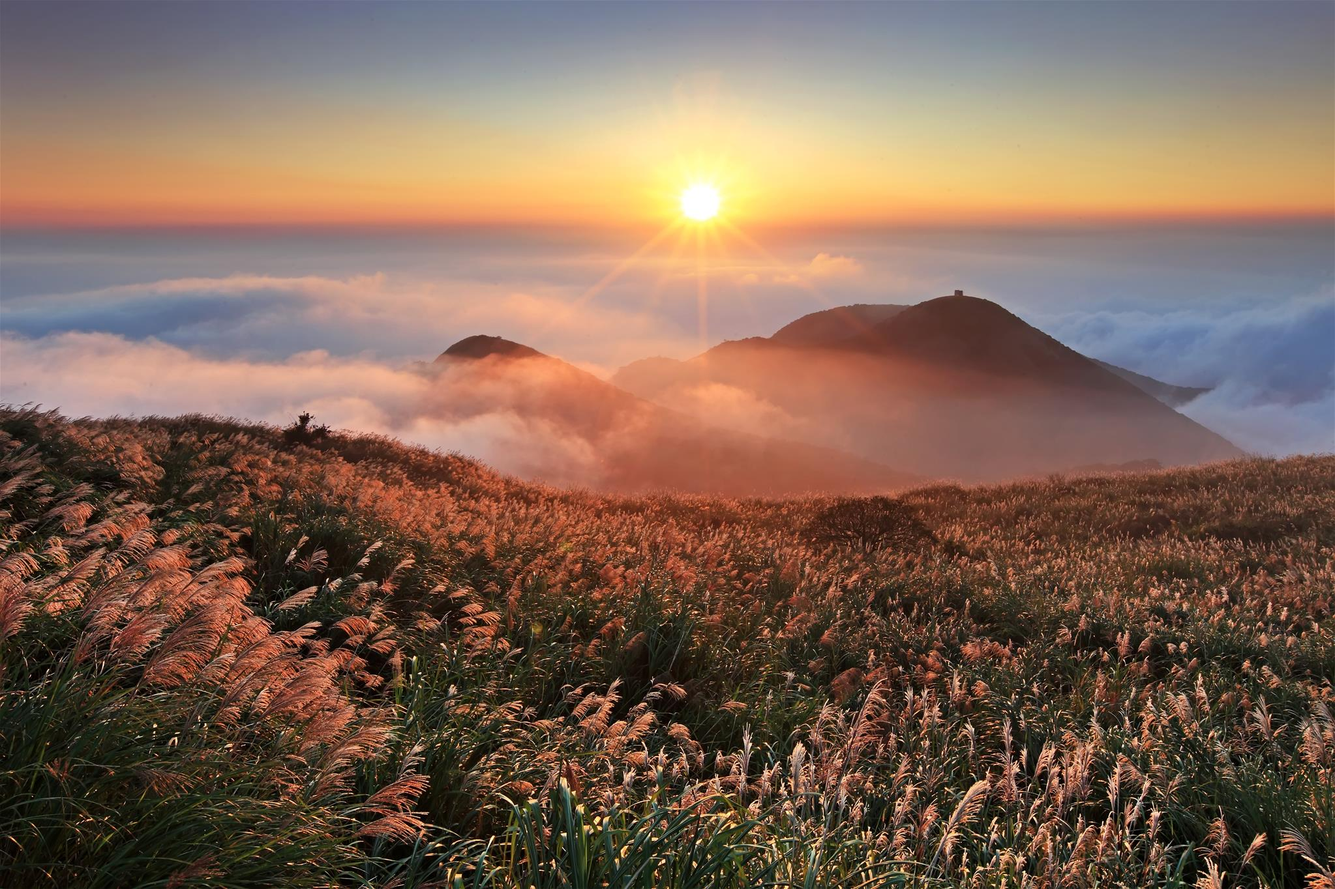
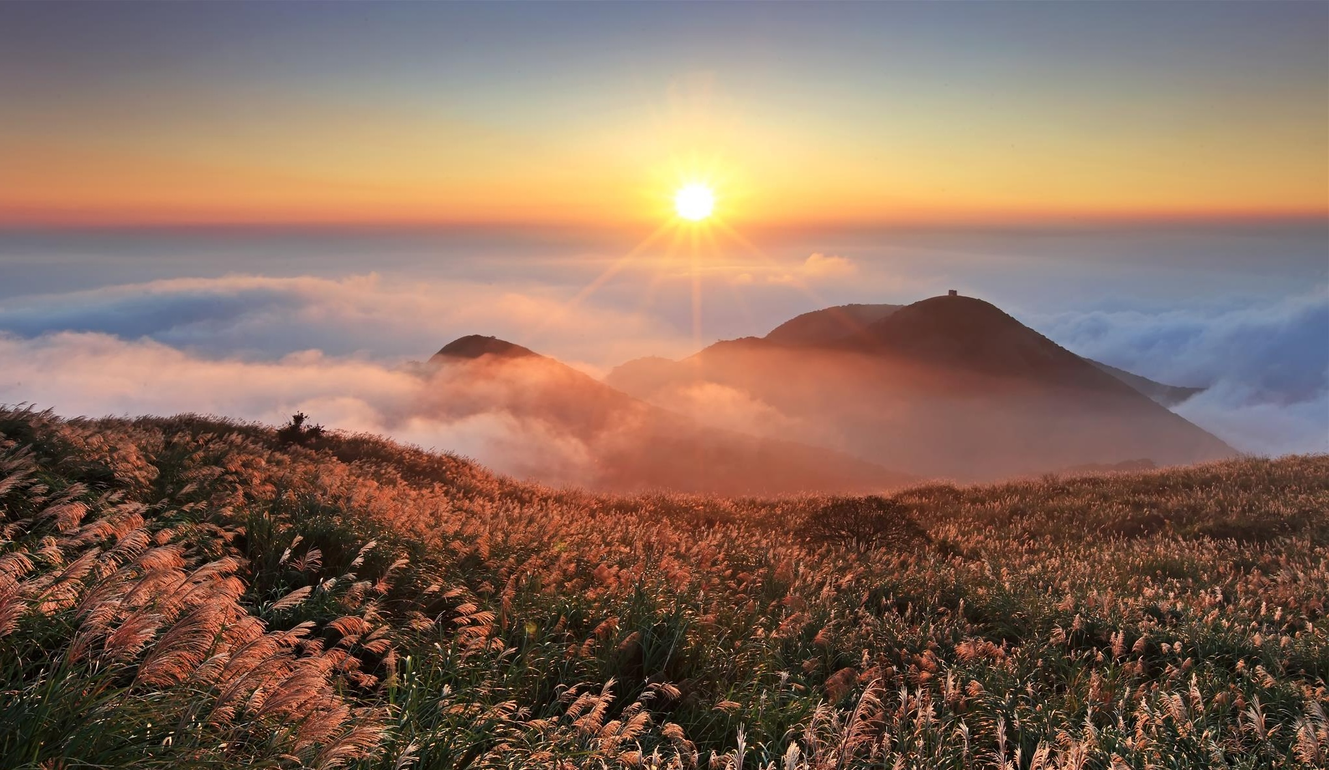
add shilin night market page

diff --git a/shilin_night_market.html b/shilin_night_market.html
@@ -9,31 +9,24 @@
 </head>
 <body>
 
-    <!-- Navbar (same as main site) -->
+    <!-- Navbar (same as National Palace Museum page) -->
     <nav class="navbar">
         <div class="container">
             <a href="index.html" class="logo">Taipei<span>Guide</span></a>
             <ul class="nav-links">
+                <li><a href="index.html#sights">Sights</a></li>
+                <li><a href="index.html#essentials">Essentials</a></li>
                 <li><a href="index.html#orientation">Orientation</a></li>
                 <li><a href="index.html#transport">Transport</a></li>
-                <li><a href="index.html#essentials">Essentials</a></li>
-                <li><a href="index.html#food">Food</a></li>
-                <li><a href="index.html#sights">Sights</a></li>
             </ul>
         </div>
     </nav>
 
     <!-- Hero Section -->
-    <header class="hero" style="
-        background:
-        linear-gradient(rgba(0,0,0,0.7), rgba(0,0,0,0.7)),
-        url('https://images.unsplash.com/photo-1538556216903-9f535b35f7a8?q=80&w=2070&auto=format&fit=crop');
-        background-size: cover;
-        background-position: center;
-    ">
+    <header class="hero hero-snm">
         <div class="hero-content">
             <h1>Shilin Night Market</h1>
-            <p>Taipei’s most iconic night market—food, culture, and endless energy.</p>
+            <p>Taipei’s most iconic night market—food, games, and an endless night-time buzz.</p>
         </div>
     </header>
 
@@ -51,7 +44,7 @@
                 </p>
             </div>
 
-            <div class="card" style="margin-top: 20px;">
+            <div class="card mt-20">
                 <h3>Historical Background</h3>
                 <p>
                     The market traces its origins back to the early 1900s, beginning as the Shilin daytime market 
@@ -59,64 +52,157 @@
                     throughout the surrounding streets. Today, Shilin has evolved into a major entertainment 
                     and culinary destination that attracts millions of visitors every year.
                 </p>
-                <p style="margin-top: 10px;">
+                <p class="mt-10">
                     <strong>Nearest MRT:</strong> Jiantan Station (Red Line) — Exit 1 leads directly to the main entrance.
                 </p>
             </div>
         </div>
     </section>
 
-    <!-- Must-Try Foods -->
+    <!-- Must-Try Foods (tab buttons) -->
     <section class="section-padding">
         <div class="container">
             <h2 class="section-title">Must-Try Foods</h2>
 
-            <div class="food-grid">
+            <!-- Tab buttons -->
+             <div class="tabs">
+                <button class="tab-btn active" data-target="food-chicken">Chicken Cutlet</button>
+                <button class="tab-btn" data-target="food-sausage">Sausage in Sticky Rice</button>
+                <button class="tab-btn" data-target="food-oyster">Oyster Omelet</button>
+                <button class="tab-btn" data-target="food-stinkytofu">Stinky Tofu</button>
+            </div>
 
-                <!-- Fried Chicken Cutlet -->
-                <div class="food-item">
-                    <img src="https://images.unsplash.com/photo-1604908177063-746f3b9f6c61?q=80&w=2069&auto=format&fit=crop" 
-                         alt="Fried Chicken" style="width:100%; border-radius:8px; margin-bottom:15px;">
-                    <h3>Large Fried Chicken Cutlet</h3>
-                    <p>
-                        A Shilin classic—oversized, crispy fried chicken cutlet seasoned with pepper or chili. 
-                        One of the most iconic foods in the entire market.
-                    </p>
+            <!-- Detail Panel (tab contents) -->
+            <div class="card">
+                <!-- Chicken Cutlet -->
+                <div id="food-chicken" class="tab-content active">
+                    <div>
+                        <img src="assets/img/shilin-night-market/snm-chicken-cutlet.jpg"
+                            alt="Fried chicken cutlet"
+                            class="main-img">
+                    </div>
+                    <div>
+                        <h3>Chicken Cutlet (Recommended: Try Both Versions!)</h3>
+                        <p>
+                            Shilin’s famous chicken cutlet comes in two irresistible styles:<br>
+                            - The classic version is <strong>deep-fried</strong> to a golden, crispy finish.<br>
+                            - Some stalls <strong>grill it over charcoal after frying</strong>, adding smoky aroma and caramelized edges.
+                        </p>
+                        <p class="mt-10">
+                            Both versions taste completely different—<strong>try both</strong> for the full experience!
+                        </p>
+                    </div>
                 </div>
 
-                <!-- Rice Sausage -->
-                <div class="food-item">
-                    <img src="https://images.unsplash.com/photo-1605962053760-9105ad756f74?q=80&w=2070&auto=format&fit=crop" 
-                         alt="Taiwanese sausage" style="width:100%; border-radius:8px; margin-bottom:15px;">
-                    <h3>Taiwanese Rice Sausage</h3>
-                    <p>
-                        “Big sausage wrapped in small sausage”—a grilled sticky rice bun wrapped around 
-                        Taiwanese pork sausage, served with garlic and sweet soy sauce.
-                    </p>
+                <!-- Sausage in Sticky Rice -->
+                <div id="food-sausage" class="tab-content">
+                    <div>
+                        <img src="assets/img/shilin-night-market/snm-sausage.jpg"
+                            alt="Sausage in Sticky Rice"
+                            class="main-img">
+                    </div>
+                    <div>
+                        <h3>Sausage in Sticky Rice</h3>
+                        <p>
+                            A Taiwanese street food icon also known as “big sausage wrapped in small sausage.”  
+                            A grilled sticky rice bun is sliced open and stuffed with a juicy pork sausage.
+                        </p>
+                        <p class="mt-10">
+                            Served with garlic, pickles, sweet soy, or chili sauce — chewy, smoky, and incredibly satisfying.
+                        </p>
+                    </div>
                 </div>
 
                 <!-- Oyster Omelet -->
-                <div class="food-item">
-                    <img src="https://images.unsplash.com/photo-1582901600666-0c95df9f05b1?q=80&w=2070&auto=format&fit=crop" 
-                         alt="Oyster omelet" style="width:100%; border-radius:8px; margin-bottom:15px;">
-                    <h3>Oyster Omelet</h3>
-                    <p>
-                        A Taiwanese staple made with oysters, egg, starch batter, and a signature sweet-salty sauce. 
-                        Rich, chewy, and full of flavor.
-                    </p>
+                <div id="food-oyster" class="tab-content">
+                    <div>
+                        <img src="assets/img/shilin-night-market/snm-oyster-omlet.jpg"
+                            alt="Oyster omelet"
+                            class="main-img">
+                    </div>
+                    <div>
+                        <h3>Oyster Omelet</h3>
+                        <p>
+                            A classic Taiwanese night market dish with fresh oysters, egg, and a chewy batter.  
+                            Topped with the famous sweet–savory sauce that defines its flavor.
+                        </p>
+                        <p class="mt-10">
+                            Many stalls specialize in this dish — follow the crowds to find the best one.
+                        </p>
+                    </div>
                 </div>
 
-                <!-- Beef Cubes -->
-                <div class="food-item">
-                    <img src="https://images.unsplash.com/photo-1603031176566-df7e6b3dfcc6?q=80&w=2070&auto=format&fit=crop" 
-                         alt="Beef cubes" style="width:100%; border-radius:8px; margin-bottom:15px;">
-                    <h3>Flame-Grilled Beef Cubes</h3>
-                    <p>
-                        Fresh beef cubes torched to perfection. 
-                        Often seasoned with sea salt, garlic, or black pepper for a smoky, juicy bite.
-                    </p>
+                <!-- Stinky Tofu -->
+                <div id="food-stinkytofu" class="tab-content">
+                    <div>
+                        <img src="assets/img/shilin-night-market/snm-stinky-tofu.jpg"
+                            alt="Stinky tofu"
+                            class="main-img">
+                    </div>
+                    <div>
+                        <h3>Stinky Tofu (Fried & Stewed)</h3>
+                        <p>
+                            Shilin offers both major styles of Taiwan’s infamous stinky tofu:<br>
+                            • <strong>Fried</strong> — crispy outside, tender inside, served with pickled cabbage.<br>
+                            • <strong>Stewed</strong> — simmered in a rich broth, softer and more pungent.
+                        </p>
+                        <p class="mt-10">
+                            A must-try for adventurous eaters — the smell is strong, but the flavor wins many fans.
+                        </p>
+                    </div>
                 </div>
+            </div>
+        </div>
+    </section>
 
+    <!-- Visiting Tips -->
+    <section class="section-padding bg-light">
+        <div class="container">
+            <h2 class="section-title">Visiting Tips</h2>
+
+            <div class="card">
+                <h3>How to Make the Most of Your Visit</h3>
+                <p>
+                    Shilin Night Market gets busy, especially on weekends and holidays. 
+                    If you want to avoid the biggest crowds, aim to arrive in the early evening 
+                    (around 5~6 pm) or later at night after 9:00 pm. Most food stalls stay open 
+                    until around midnight.
+                </p>
+                <p class="mt-10">
+                    Start from <strong>Jiantan Station Exit 1 (Not Shilin Station!)</strong>, follow the crowd toward the main entrance, 
+                    and slowly work your way through side alleys. Try sharing dishes with friends so you can 
+                    sample more stalls without getting full too quickly. Wear comfortable shoes—the alleys can 
+                    be narrow, slightly uneven, and you might end up walking more than you expect.
+                </p>
+                <p class="mt-10">
+                    Be prepared for strong smells (like stinky tofu), lots of sizzling grills, and game 
+                    booths with claw machines and carnival-style games. If you prefer a more relaxed vibe, 
+                    visit on a weekday night and avoid typhoon days or heavy rain when some outdoor stalls 
+                    may close early.
+                </p>
+            </div>
+
+            <div class="card mt-20">
+                <h3>Practical Information</h3>
+
+                <ul class="info-list">
+                    <li><strong>Location:</strong> Shilin District, Taipei City, near Jiantan MRT Station (Red Line).</li>
+                    <li><strong>Opening Hours:</strong> Generally late afternoon to around midnight; peak time is 7–10 pm.</li>
+                    <li><strong>Best Time to Visit:</strong> Weekday evenings for fewer crowds; weekends are the most lively but also the most crowded.</li>
+                    <li><strong>Payment:</strong> Many stalls are cash-only. Mobile payments such as LINE Pay or JKoPay are increasingly accepted, 
+                        but credit cards are still uncommon—bring enough cash just in case.</li>
+                    <li><strong>Nearest MRT:</strong> Jiantan Station (Red Line), Exit 1. Follow the pedestrian flow across the street to reach the main entrance.</li>
+                </ul>
+
+                <!-- Google Map Embed -->
+                <div class="map-container mt-20">
+                    <iframe
+                        src="https://www.google.com/maps?q=Shilin+Night+Market+Taipei&z=16&output=embed"
+                        allowfullscreen=""
+                        loading="lazy"
+                        referrerpolicy="no-referrer-when-downgrade">
+                    </iframe>
+                </div>
             </div>
         </div>
     </section>
@@ -124,7 +210,7 @@
     <!-- Footer -->
     <footer>
         <div class="container">
-            <p>&copy; <span id="year"></span> Taipei Travel Guide</p>
+            <p>&copy; <span id="year"></span> Taipei Guide</p>
         </div>
     </footer>
 

diff --git a/index.html b/index.html
@@ -51,6 +51,12 @@
                     <a href="./national_palace_museum.html" class="btn">More Information</a>
                 </div>
 
+                <div class="hero-slide" data-bg-class="hero-snm">
+                    <h1>Shilin Night Market</h1>
+                    <p>Taipei’s most iconic night market—food, games, and an endless night-time buzz.</p>
+                    <a href="./shilin_night_market.html" class="btn">More Information</a>
+                </div>
+
             </div>
             <button class="hero-arrow right">&#10095;</button>
 
@@ -77,7 +83,7 @@
                     <strong>Elephant Mountain</strong> - Hike here for the best view <em>of</em> Taipei 101.
                 </li>
                 <li>
-                    <strong>Shilin Night Markeet</strong> - Snacks.
+                    <a href="./shilin_night_market.html"> <strong>Shilin Night Market</strong> </a> - Taipei’s most iconic night market—food, games, and an endless night-time buzz.
                 </li>
                 <li>
                     <a href="./national_palace_museum.html"> <strong>Yangmingshan National Park</strong> </a> - Volcanic landscapes, flower seasons, and cool mountain air just north of Taipei.

diff --git a/assets/style.css b/assets/style.css
@@ -113,6 +113,7 @@ ul {
     text-align: center;
     color: white;
 }
+/* Hero Image */
 .hero-npm {
     background-image:
         linear-gradient(rgba(0,0,0,0.7), rgba(0,0,0,0.7)),
@@ -122,6 +123,11 @@ ul {
     background-image:
         linear-gradient(rgba(0,0,0,0.7), rgba(0,0,0,0.7)),
         url('img/common/ynp-hero.jpg');
+}
+.hero-snm {
+    background-image:
+        linear-gradient(rgba(0,0,0,0.7), rgba(0,0,0,0.7)),
+        url('img/common/snm-hero.jpg');
 }
 
 .hero h1 {
